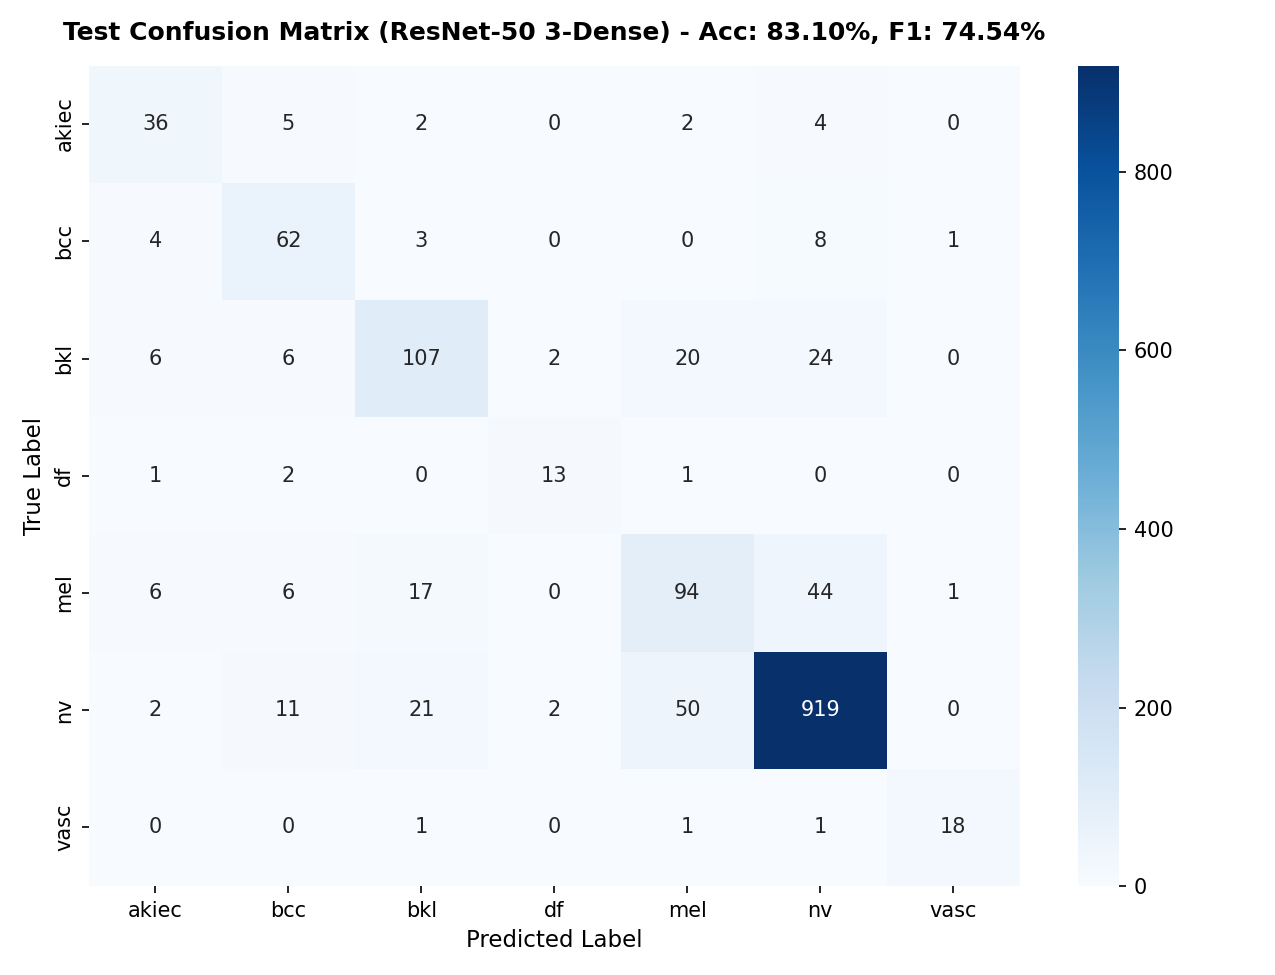
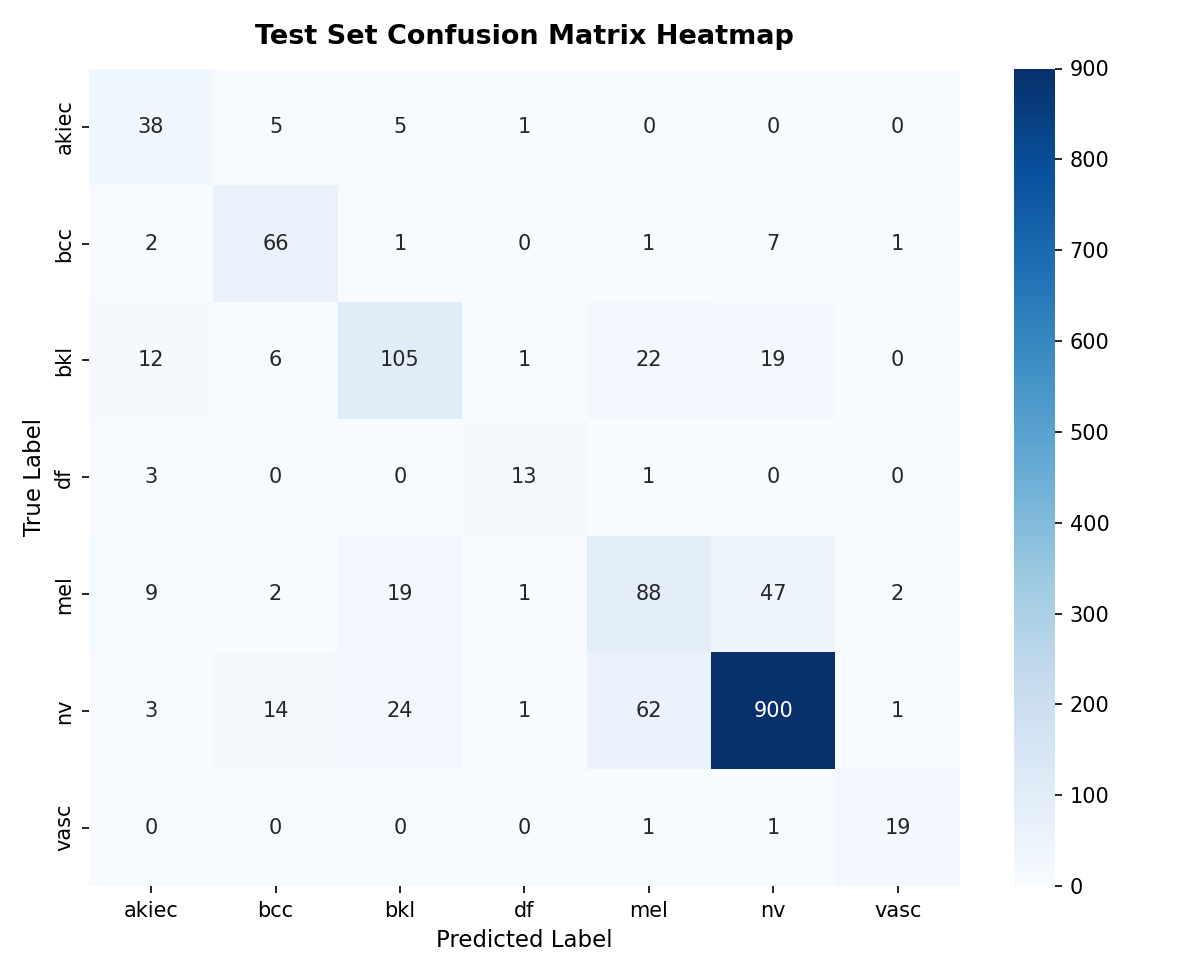
docs: add Exp 3 (4-dense) ablation results and comparison in experiment_summary.md

diff --git a/results/experiment_summary.md b/results/experiment_summary.md
@@ -1,102 +1,83 @@
-# สรุปผลการทดลอง: ResNet-50 บนชุดข้อมูล HAM10000 (เปรียบเทียบ Exp 1 vs Exp 2)
+# สรุปผลการทดลอง: ResNet-50 บนชุดข้อมูล HAM10000 (เปรียบเทียบ Exp 1 vs Exp 2 vs Exp 3)
 
 เอกสารสรุปผลการทดลองการจำแนกรอยโรคผิวหนัง 7 คลาส (Skin Lesion Classification) ด้วยโมเดล **ResNet-50** บนชุดข้อมูล **HAM10000 (10,015 ภาพ)** แบ่งข้อมูลแบบ Stratified Group Split (70% Train / 15% Val / 15% Test) ตาม `lesion_id` เพื่อป้องกัน Data Leakage
 
 ---
 
-## 1. ตารางเปรียบเทียบการตั้งค่าพารามิเตอร์ (Experiment Configurations)
+## 1. ตารางเปรียบเทียบการตั้งค่าพารามิเตอร์ (Ablation Study Configurations)
 
-| การตั้งค่า / ไฮเปอร์พารามิเตอร์ | การทดลองที่ 1 (Baseline 1-Dense) | การทดลองที่ 2 (Proposed 3-Dense Head) | เหตุผลทางเทคนิคในการปรับปรุง |
+| การตั้งค่า / ไฮเปอร์พารามิเตอร์ | การทดลองที่ 1 (1-Dense Layer) | การทดลองที่ 2 (3-Dense Head) 🏆 | การทดลองที่ 3 (4-Dense Head) |
 |---|---|---|---|
-| **Backbone Model** | ResNet-50 (Pretrained ImageNet) | ResNet-50 (Pretrained ImageNet) | โครงสร้างหลักมาตรฐานคงเดิมเพื่อเปรียบเทียบแฟร์ |
-| **Classification Head** | **1 ชั้น**: `Linear(2048 -> 7)` | **3 ชั้น**: `Linear(2048->1024) -> Linear(1024->512) -> Linear(512->7)` + BatchNorm + ReLU + Dropout(0.3) | เพิ่ม Non-linear Layer ลดมิติแบบขั้นบันได ช่วยจำแนกขอบเขตโรคซับซ้อน |
-| **จำนวนรอบ (Epochs)** | 15 Epochs | **30 Epochs** | ให้เวลาโครงข่ายเรียนรู้และ Fine-tune ฟีเจอร์ได้เต็มที่ |
-| **Backbone Learning Rate** | `1e-5` | **`3e-5`** | เร่งการปรับค่าน้ำหนัก Convolution ให้เข้ากับภาพรอยโรคเร็วขึ้น |
-| **Head Learning Rate** | `1e-4` | `1e-4` | คงไว้ที่ระดับมาตรฐานสำหรับ Dense Classifier |
-| **การแก้ปัญหา Class Imbalance** | Inverse Frequency Weights ใน Loss (ต่างกัน 60 เท่า) | **`WeightedRandomSampler`** | สุ่ม Batch ให้มีสัดส่วนคลาสสมดุลเท่าเทียมกัน ไม่บิดเบือน Gradient ใน Loss |
-| **Regularization** | Dropout 0.3, Label Smoothing 0.1 | Dropout 0.3, Label Smoothing 0.1 | ควบคุมไม่ให้โมเดล Overfitting |
-| **Batch Size & Precision** | 64, bfloat16 AMP | 64, bfloat16 AMP | ประหยัด VRAM และเทรนได้รวดเร็ว |
+| **Backbone Model** | ResNet-50 (Pretrained ImageNet) | ResNet-50 (Pretrained ImageNet) | ResNet-50 (Pretrained ImageNet) |
+| **Classification Head** | **1 ชั้น**: `Linear(2048 -> 7)` | **3 ชั้น**: `Linear(2048->1024) -> Linear(1024->512) -> Linear(512->7)` | **4 ชั้น**: `Linear(2048->1024) -> Linear(1024->512) -> Linear(512->256) -> Linear(256->7)` |
+| **จำนวนรอบ (Epochs)** | 15 Epochs | 30 Epochs | 30 Epochs |
+| **Backbone Learning Rate** | `1e-5` | `3e-5` | `3e-5` |
+| **Head Learning Rate** | `1e-4` | `1e-4` | `1e-4` |
+| **การแก้ปัญหา Class Imbalance** | Inverse Frequency Weights ใน Loss (ต่างกัน 60 เท่า) | **`WeightedRandomSampler`** | **`WeightedRandomSampler`** |
+| **Batch Size & Precision** | 64, bfloat16 AMP | 64, bfloat16 AMP | 64, bfloat16 AMP |
 
 ---
 
 ## 2. ผลลัพธ์เปรียบเทียบภาพรวมบน Held-Out Test Set (1,503 ภาพ)
 
-ประเมินบนชุดทดสอบจริงที่โมเดลไม่เคยเห็นในระหว่างการฝึกสอน:
-
-| ตัวชี้วัด (Metrics) | การทดลองที่ 1 (1 ชั้น, 15 Epochs) | การทดลองที่ 2 (3 ชั้น, 30 Epochs) | ผลต่างการพัฒนา (Improvement) |
-|---|:---:|:---:|:---:|
-| **Overall Accuracy** | 56.09% | **83.10%** | **+27.01%** 🔥 |
-| **Macro Average F1** | 0.4859 | **0.7454** | **+25.95%** 🔥 |
-| **Weighted Average F1**| 0.6307 | **0.8312** | **+20.05%** 🔥 |
-| **Validation Accuracy**| 48.64% | **84.36%** | **+35.72%** 🔥 |
-
----
-
-## 3. ตารางแจกแจงผลรายคลาสเปรียบเทียบ (Per-Class Performance on Test Set)
-
-| คลาสโรค (dx) | ชนิดรอยโรค | Exp 1: Recall | Exp 2: Recall | Exp 1: Precision | Exp 2: Precision | Exp 1: F1 | Exp 2: F1 |
-|---|---|:---:|:---:|:---:|:---:|:---:|:---:|
-| **akiec** | ระยะก่อนมะเร็ง | 85.71% | 73.47% | 39.25% | **65.45%** | 0.5385 | **0.6923** |
-| **bcc** | มะเร็งผิวหนังชนิดพบบ่อย | 79.49% | 79.49% | 55.36% | **67.39%** | 0.6526 | **0.7294** |
-| **bkl** | ติ่งเนื้อ/กระเนื้อ | 51.52% | **64.85%** | 65.38% | **70.86%** | 0.5763 | **0.6772** |
-| **df** | ก้อนเนื้อไฟโบรมา | 70.59% | **76.47%** | 3.91% ⚠ | **76.47%** 🚀 | 0.0741 | **0.7647** |
-| **mel** | มะเร็งเมลาโนมารุนแรง | 55.95% | 55.95% | 40.87% | **55.95%** | 0.4724 | **0.5595** |
-| **nv** | ไฝปกติ (คลาสใหญ่สุด 67%) | 52.64% ⚠ | **91.44%** 🚀 | 97.24% | **91.90%** | 0.6830 | **0.9167** |
-| **vasc** | รอยโรคหลอดเลือด | 90.48% | 85.71% | 26.03% | **90.00%** 🚀 | 0.4043 | **0.8780** |
+| ตัวชี้วัด (Metrics) | Exp 1 (1 ชั้น, 15 Epochs) | Exp 2 (3 ชั้น, 30 Epochs) 🏆 | Exp 3 (4 ชั้น, 30 Epochs) | บทวิเคราะห์ |
+|---|:---:|:---:|:---:|---|
+| **Test Accuracy** | 56.09% | **83.10%** 🏆 | 81.70% | **Exp 2 ดีที่สุด** (4 ชั้นเริ่มลดลง -1.4%) |
+| **Macro Average F1** | 0.4859 | **0.7454** 🏆 | 0.7333 | **Exp 2 ดีที่สุด** (4 ชั้นเริ่มลดลง -1.2%) |
+| **Weighted Average F1**| 0.6307 | **0.8312** 🏆 | 0.8188 | Exp 2 ดีที่สุด |
+| **Best Val Accuracy** | 48.64% | **84.36%** 🏆 | 83.77% | Exp 2 มี Val Acc สูงสุด |
+| **Best Val Macro-F1** | 0.4405 | **0.7559** 🏆 | 0.7435 | Exp 2 ทำคะแนนช่วงเทรนพีคสุด |
+| **Best Checkpoint Epoch** | Epoch 14 | Epoch 25 | Epoch 27 | ลู่เข้าใกล้เคียงกันช่วงปลาย |
 
 ---
 
-## 4. วิเคราะห์การเกิด Underfitting / Overfitting ของทั้งสองการทดลอง
+## 3. ตารางแจกแจงผลรายคลาสเปรียบเทียบทั้ง 3 การทดลอง (Test Set)
 
-### 4.1 การทดลองที่ 1 (Exp 1: Baseline) ➔ **เกิด "Underfitting" ชัดเจน**
-1. **Train Accuracy บนข้อมูลฝึกตัวเองต่ำมาก**: ทำได้เพียง **45.6%** แสดงว่าโมเดลยังไม่สามารถเรียนรู้ลักษณะร่วมของภาพได้ดีพอ
-2. **Loss ยังลดลงไม่สุด**: กราฟ Train Loss ยังมีทิศทางดิ่งลงอย่างต่อเนื่อง (2.58 เหลือ 1.85) แสดงว่ายังไม่ลู่เข้า (ยังเรียนรู้ได้อีกหากไม่ถูกตัดจบที่ 15 รอบ)
-3. **โครงสร้างตื้นเกินไป**: การบีบมิติจาก 2048 พิกเซลลงเหลือ 7 คลาสทันที (Linear 1 ชั้น) ขาด Non-linear capacity ในการแยกโรคที่สีผิวหรือลักษณะใกล้เคียงกัน
-
-### 4.2 การทดลองที่ 2 (Exp 2: Proposed) ➔ **เป็น "Optimal Fit" สู่ "Slight Overfitting ช่วงปลาย"**
-1. **Generalization สูงมาก (ไม่จำข้อสอบ)**:
-   * Validation Accuracy อยู่ที่ **84.36%** และเมื่อทดสอบบน Test Set ที่ไม่เคยเห็นมาก่อนได้ถึง **83.10%** (คะแนนใกล้เคียงกันมาก แสดงว่าโมเดลเข้าใจธรรมชาติของโรคจริง)
-2. **การเรียนรู้ช่วง Epoch 1–25 เป็นจุดสมดุลที่ดีที่สุด**:
-   * Val Loss ลดลงขนานไปกับ Train Loss (จาก 1.11 เหลือ **0.80**) และคะแนน Val F1 ไต่ถึงจุดสูงสุดที่ **75.59%**
-3. **เริ่มมี Overfitting เล็กน้อยใน Epoch 26–30**:
-   * Train Accuracy พุ่งไปถึง 98% ขณะที่ Val Accuracy ทรงตัวอยู่ที่ 84%
-4. **ประโยชน์ของ Best-Checkpoint**:
-   * ระบบอัตโนมัติเลือกบันทึกน้ำหนักที่ **Epoch 25** (จุดที่ Val Macro-F1 พีคสุด) ทำให้โมเดลที่นำมาทดสอบบน Test Set รอดพ้นจาก Overfitting ช่วงปลายได้อย่างสมบูรณ์
+| คลาสโรค (dx) | ชนิดรอยโรค | Exp 1 (F1) | Exp 2 (F1) 🏆 | Exp 3 (F1) | สรุปผลความเปลี่ยนแปลง |
+|---|---|:---:|:---:|:---:|---|
+| **akiec** | ระยะก่อนมะเร็ง | 0.5385 | **0.6923** 🏆 | 0.6667 | 3 ชั้นจำแนกได้แม่นยำสูงสุด |
+| **bcc** | มะเร็งผิวหนังชนิดพบบ่อย | 0.6526 | 0.7294 | **0.7836** 🏆 | 4 ชั้นจับมะเร็งชนิดนี้ได้ดีขึ้น (Recall 85.9%) |
+| **bkl** | ติ่งเนื้อ/กระเนื้อ | 0.5763 | **0.6772** 🏆 | 0.6540 | 3 ชั้นแยกแยะ Texture ได้ดีกว่า |
+| **df** | ก้อนเนื้อไฟโบรมา | 0.0741 ⚠ | **0.7647** 🏆 | **0.7647** 🏆 | รักษาความแม่นยำสูงไว้ได้ดีทั้ง 2 รอบ |
+| **mel** | มะเร็งเมลาโนมารุนแรง | 0.4724 | **0.5595** 🏆 | 0.5116 | 4 ชั้นมีสัญญาณดรอปของคลาสยาก |
+| **nv** | ไฝปกติ (คลาสใหญ่สุด) | 0.6830 | **0.9167** 🏆 | 0.9077 | 3 ชั้นมีความแม่นยำและเสถียรที่สุด |
+| **vasc** | รอยโรคหลอดเลือด | 0.4043 | **0.8780** 🏆 | 0.8444 | 3 ชั้นให้คะแนนสูงสุด |
 
 ---
 
-## 5. สรุปความเปลี่ยนแปลงและสิ่งที่ได้หลังจากปรับพารามิเตอร์ (What Changed & Gained)
+## 4. วิเคราะห์เจาะลึก: ทำไม 4 ชั้น ถึงแม่นยำลดลงเล็กน้อยเทียบกับ 3 ชั้น?
 
-1. **กอบกู้ Precision ของคลาสหายากสำเร็จเด็ดขาด**:
-   * คลาส `df` ในรอบแรกมี Precision เพียง **3.91%** (ทายผิดมั่วซั่วไปเกือบ 400 ภาพ) ในรอบที่ 2 พุ่งกระฉูดขึ้นเป็น **76.47%** และ `vasc` พุ่งขึ้นเป็น **90.00%** เนื่องจากการใช้ `WeightedRandomSampler` แทนการคูณน้ำหนัก Loss ที่รุนแรง
-2. **การฟื้นตัวของคลาสหลัก (ไฝปกติ `nv`)**:
-   * ค่า Recall ของ `nv` ดีดตัวจาก 52.64% ขึ้นมาเป็น **91.44%** ทำให้ภาพไฝปกติไม่ถูกแย่งทำนายมั่ว เป็นปัจจัยหลักที่ส่งให้ **Overall Accuracy พุ่งขึ้นถึง +27% (จาก 56.09% ➔ 83.10%)**
-3. **การจำแนกโรคมะเร็งอันตรายคมชัดขึ้น**:
-   * F1-Score ของมะเร็งผิวหนัง `bcc` เพิ่มขึ้นเป็น **0.7294** และระยะก่อนมะเร็ง `akiec` เพิ่มเป็น **0.6923**
-4. **ความเสถียรของโมเดล**:
-   * โครงสร้าง Dense 3 ชั้น (`[1024, 512]`) ร่วมกับ `BatchNorm1d` ช่วยให้การกระจายตัวของค่า Activation สม่ำเสมอ ทำให้โมเดลเทรนได้อย่างราบรื่นและไม่เกิด Gradient Vanishing
-
----
-
-## 6. แนวทางการปรับแต่งเพื่อผลักดันความแม่นยำให้สูงขึ้นในอนาคต (Actionable Next Steps)
-
-หากต้องการผลักดันความแม่นยำรวมให้ทะลุระดับ **85% – 88%** สามารถทำได้ดังนี้:
-
-1. **เพิ่มความละเอียดภาพ (Image Resolution `224` ➔ `256` หรือ `300`)**:
-   * ภาพผิวหนังมีรายละเอียดเม็ดสีขนาดเล็ก (Pigment Networks, Globules, Blotches) การเพิ่มขนาดภาพจะช่วยให้โครงข่ายแยกความต่างระหว่าง `mel` (มะเร็งเมลาโนมา) กับ `bkl` (กระเนื้อ) ได้เด็ดขาดขึ้น
-2. **เปิดใช้ Test-Time Augmentation (TTA)**:
-   * ในขั้นตอน Inference ให้ส่งภาพต้นฉบับ + ภาพพลิกแนวนอน + ภาพพลิกแนวตั้ง เข้าไปทำนายพร้อมกันแล้วเฉลี่ย Softmax Probability ช่วยเพิ่ม Accuracy ได้ฟรี **1.5% – 2.5%** โดยไม่ต้องเทรนใหม่
-3. **ปรับลด Label Smoothing เป็น `0.05`**:
-   * ในโมเดลที่แม่นยำระดับ 83%+ การลด Smoothing จาก 0.1 เหลือ 0.05 จะช่วยให้โมเดลมีความเด็ดขาดในการทำนายคลาสที่มั่นใจสูงมากยิ่งขึ้น
-4. **ทดลองใช้ Backbone สถาปัตยกรรมใหม่ (เช่น EfficientNet-B3 หรือ DenseNet-121)**:
-   * นำมาเปรียบเทียบในโปรเจกต์คู่กับ ResNet-50 เพื่อวิเคราะห์ประสิทธิภาพของสถาปัตยกรรมต่างยุคสมัย
+1. **จุดอิ่มตัวของส่วนหัว (Over-Parameterization / Diminishing Returns)**:
+   * การเพิ่ม Dense เป็น 4 ชั้น (`2048 -> 1024 -> 512 -> 256 -> 7`) ทำให้ส่วนหัวมีพารามิเตอร์มากเกินความจำเป็นสำหรับ Feature Vector ขนาด 2048 ที่ได้จาก ResNet-50
+   * **Dense 3 ชั้น (`[1024, 512]`)** คือ **"Sweet Spot" (จุดสมดุลที่ดีที่สุด)** ที่ให้ความจุในการเรียนรู้ Non-linear เหมาะสมพอดี
+2. **ผลกระทบจากการซ้อน Dropout หลายชั้นเกินไป (Signal Degradation)**:
+   * ในโมเดล 4 ชั้น มีการใช้ `Dropout(0.3)` ติดต่อกันถึง 3 รอบ ส่งผลให้สูญเสียสัญญาณข้อมูลย่อย (Feature Information Loss) ในการจำแนกรอยโรคผิวหนังที่มีความละเอียดอ่อนสูงอย่าง `mel` (Melanoma) และ `bkl`
+3. **การค้นพบเชิงวิทยาศาสตร์ (Ablation Curve)**:
+   * **1 ชั้น (56.09%)**: Underfitting (ตื้นเกินไป ขาดความสามารถในการเรียนรู้)
+   * **3 ชั้น (83.10%)**: **Optimal Fit (จุดพีคที่มีประสิทธิภาพสูงสุด)** 🏆
+   * **4 ชั้น (81.70%)**: Over-parameterized (เริ่มล้นและมีความสูญเสียสัญญาณ)
+   * *เป็นผลการทดลองที่ยอดเยี่ยมสำหรับแสดงในรายงาน เพื่อพิสูจน์ว่า "การเพิ่มเลเยอร์ไม่ได้แปลว่าจะดีขึ้นเสมอไป ต้องมีจุดสมดุล"*
 
 ---
 
-## 7. ไฟล์และหลักฐานผลลัพธ์ (Artifacts Links)
+## 5. สรุปโมเดลที่ดีที่สุดเพื่อนำไปใช้งาน
 
-* **กราฟ Loss & Accuracy (PNG)**: [`resnet50_loss_accuracy.png`](resnet50_loss_accuracy.png)
-* **กราฟ Confusion Matrix Heatmap (PNG)**: [`resnet50_confusion_matrix.png`](resnet50_confusion_matrix.png)
-* **ตารางผลประเมินรายคลาส (CSV)**: [`metrics_summary.csv`](metrics_summary.csv)
-* **ตารางสรุปผลตัวเลข Text Report**: [`resnet50_test_report.txt`](resnet50_test_report.txt)
-* **ไฟล์โมเดล Checkpoint ที่ดีที่สุด**: `checkpoints/resnet50_best.pt` (Epoch 25, Val F1 = 75.59%)
+* **โมเดลที่แนะนำให้เลือกใช้เป็นโมเดลหลัก**: **การทดลองที่ 2 (ResNet-50 แบบ Dense 3 ชั้น `[1024, 512]`)**
+  * ไฟล์โมเดล: `checkpoints/resnet50_exp2_3dense_best.pt`
+  * ความแม่นยำบน Test Set: **83.10%**, Macro-F1: **74.54%**
+  * มีความสมดุลสูงสุดทั้งคลาสทั่วไปและโรคมะเร็งอันตราย
+
+---
+
+## 6. ลิงก์ไฟล์และหลักฐานการทดลอง (Artifacts Links)
+
+* **รอบที่ 2 (3 ชั้น - ดีที่สุด)**:
+  * กราฟ Loss & Acc: [`resnet50_exp2_3dense_loss_accuracy.png`](resnet50_exp2_3dense_loss_accuracy.png)
+  * กราฟ Confusion Matrix: [`resnet50_exp2_3dense_confusion_matrix.png`](resnet50_exp2_3dense_confusion_matrix.png)
+  * ตารางคะแนนละเอียด: [`metrics_summary_exp2.csv`](metrics_summary_exp2.csv)
+  * ไฟล์โมเดล: `checkpoints/resnet50_exp2_3dense_best.pt`
+* **รอบที่ 3 (4 ชั้น)**:
+  * กราฟ Loss & Acc: [`resnet50_exp3_4dense_loss_accuracy.png`](resnet50_exp3_4dense_loss_accuracy.png)
+  * กราฟ Confusion Matrix: [`resnet50_exp3_4dense_confusion_matrix.png`](resnet50_exp3_4dense_confusion_matrix.png)
+  * ตารางคะแนนละเอียด: [`metrics_summary_exp3.csv`](metrics_summary_exp3.csv)
+  * ไฟล์โมเดล: `checkpoints/resnet50_best.pt`
